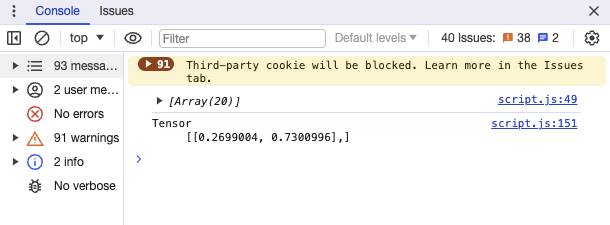
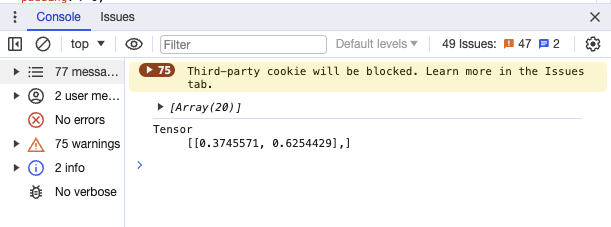
edit to readme

Changed region(s): [[0.0, 0.0, 1.0, 1.0], [0.2492, 0.4356, 0.9656, 0.6533]]

diff --git a/TFjs_WebApp/README.md b/TFjs_WebApp/README.md
@@ -16,7 +16,11 @@ I then tested the same text input on the retrained model.
 
 ![Alt text](images/test_retrained_model.png)
 
-The probabilities vary slightly, although both comments were allowed through, therefore the model will need to be retrained further to consider this comment as spam input.
+The probabilities vary slightly and jumped from a probability of spam in the pretrained of 62.5% to 73% in the retrained model. 
+
+Although both comments were allowed through with the threshold of 75% being too high, therefore the model will need to be retrained further to consider this comment as spam input.
+
+![Alt text](images/retrained_probabilities.png)
 
 
 
